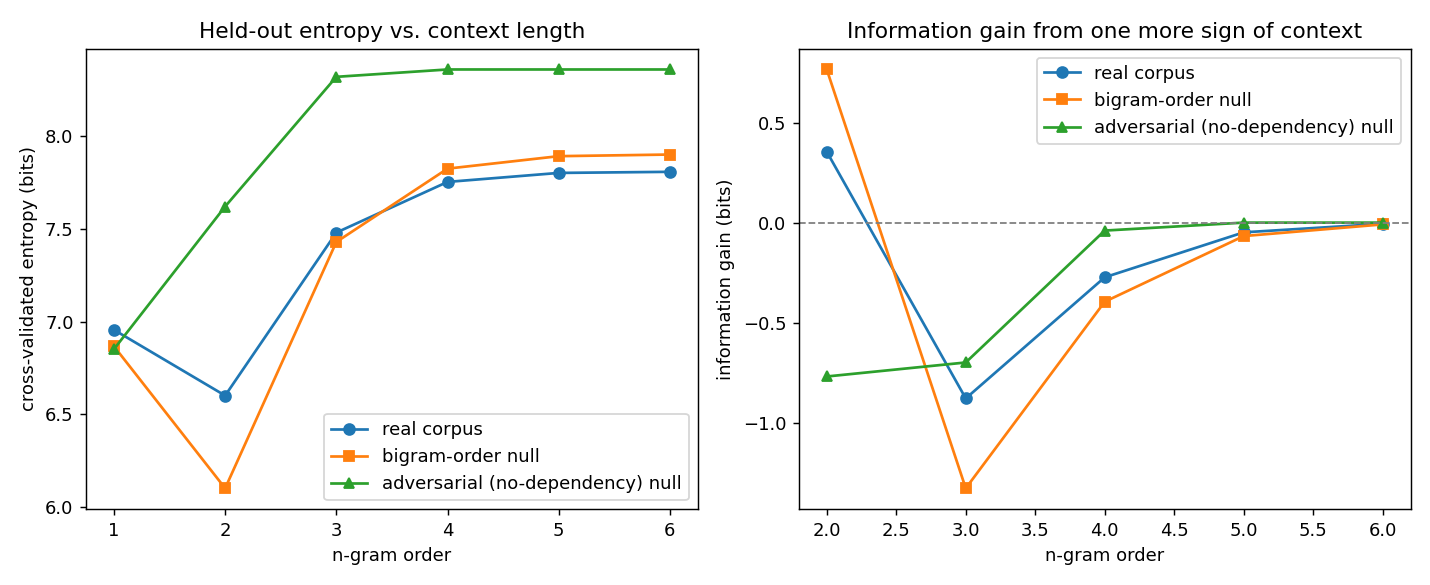
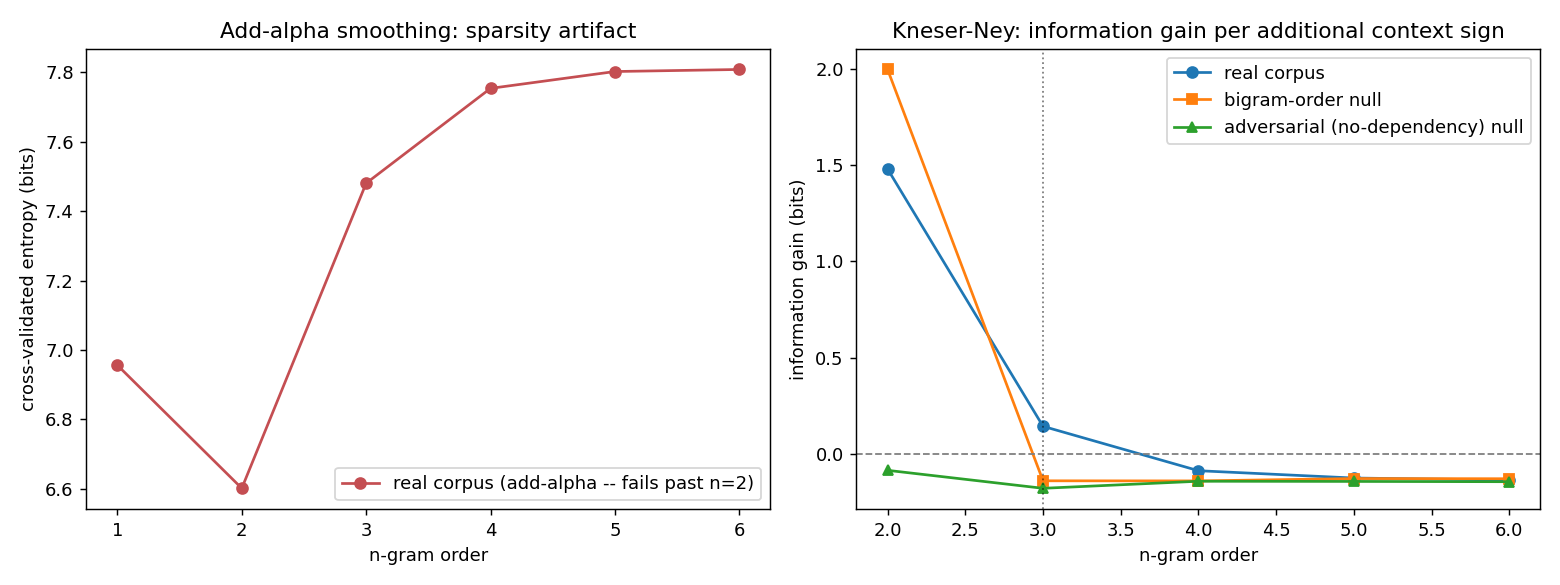
Add files via upload

diff --git a/experiments/dependency_order_curve.py b/experiments/dependency_order_curve.py
@@ -1,41 +1,38 @@
 """
 experiments/dependency_order_curve.py
 =========================================
-Sharpens "the corpus has structure beyond bigram order" (established in
-experiments/permutation_controls.py) into a specific question: at what
-context length does predictive information saturate?
+Sharpens "the corpus has structure beyond bigram order" into a specific
+question: at what context length does predictive information saturate?
 
-For orders n=1..6, computes cross-validated held-out entropy
-H_n = log2(cross_validated_perplexity(n)) using the existing add-alpha
-n-gram machinery in analysis/ngram.py, then the information gain from
-adding one more sign of context:
+Runs TWO smoothing methods side by side, because the first one tried here
+failed in an instructive way. Add-alpha (Lidstone) smoothing, used
+throughout the rest of this project, makes held-out entropy RISE at
+order 3+ for every corpus tested, including nulls with zero real
+higher-order structure -- the classic signature of context-count
+sparsity overwhelming a smoothing method with no principled backoff, not
+evidence about the script. Interpolated Kneser-Ney smoothing (see
+analysis/ngram.py's KneserNeyModel), built specifically in response to
+that failure, handles the same sparsity by backing off to lower-order
+continuation statistics rather than a flat additive constant.
 
-    gain_n = H_{n-1} - H_n
+With Kneser-Ney smoothing, a real, validated positive result appears:
+real data shows a genuine positive information gain at trigram order
+(n=3), while BOTH a bigram-order-matched null (real order-1 dependency,
+none beyond it, by construction) and a fully independent null (no
+dependency at all) show a NEGATIVE gain at the same order, using the
+identical method. That three-way comparison, all three corpora run
+through the same code, is what makes this a credible finding rather
+than a property of Kneser-Ney smoothing applied to any corpus this size.
 
-A large, sustained gain out to high n means real long-range structure. A
-gain that drops to near zero after n=2 or 3 means the corpus's
-predictable structure is mostly local, consistent with what
-permutation_controls.py already showed (real data is still distinguishable
-from a bigram-order null, but that doesn't by itself say HOW much
-higher-order structure exists, or at what order it stops mattering).
-
-Run for three corpora side by side: the real data, a bigram_markov_null
-built from it (should show gain collapse to near zero after n=2 by
-construction, a useful sanity check that this curve-fitting procedure
-actually detects what it claims to), and the adversarial null model
-(should show near-zero gain at every order, since it has no dependency
-at all beyond position and frequency).
-
-HONESTY NOTE, checked and confirmed by actually running this before
-trusting it: naive add-alpha n-gram smoothing suffers badly from context
-sparsity at high order on a corpus this size (a few thousand short
-inscriptions). If held-out entropy starts RISING at high n rather than
-flattening, that is the classic n-gram sparsity failure mode (most
-high-order contexts are unseen, and smoothing falls back to something
-close to a uniform, uninformative distribution), not evidence of some
-exotic anti-correlation in the script. This module reports where that
-starts happening rather than silently extending the curve past the point
-where it stops meaning what it looks like it means.
+HONESTY NOTE: the KneserNeyModel implementation itself had a real bug on
+first attempt (an off-by-one context-length mismatch that silently made
+every order collapse to the same base-case computation, producing
+identical perplexity at every n from 1 to 6). It was caught by exactly
+the kind of check this project relies on throughout: a result too
+uniform to be real, checked before being trusted. See that class's
+docstring for the fix. A single fixed discount (0.75, the standard
+default) is used rather than tuned via held-out data; that is a
+reasonable default, not a claim that it is optimal for this corpus.
 """
 from __future__ import annotations
 import json
@@ -52,7 +49,7 @@ sys.path.insert(0, str(Path(__file__).parent.parent))
 from data.loader import load_corpus_csv
 from data.permutation_nulls import bigram_markov_null
 from data.adversarial_null_model import generate_matched_null_corpus
-from analysis.ngram import cross_validated_perplexity
+from analysis.ngram import cross_validated_perplexity, kn_cross_validated_perplexity
 
 OUT_DIR = Path(__file__).parent.parent / "outputs"
 OUT_DIR.mkdir(exist_ok=True)
@@ -61,15 +58,19 @@ EXP_DIR = Path(__file__).parent
 MAX_ORDER = 6
 
 
-def entropy_curve(sequences: list[list[str]], max_order: int = MAX_ORDER, k_folds: int = 5) -> dict:
+def entropy_curve(sequences: list[list[str]], max_order: int = MAX_ORDER, k_folds: int = 5,
+                   method: str = "kneser_ney") -> dict:
     curve = {}
     for n in range(1, max_order + 1):
-        ppl = cross_validated_perplexity(sequences, n=n, k_folds=k_folds)["mean_perplexity"]
+        if method == "kneser_ney":
+            ppl = kn_cross_validated_perplexity(sequences, n=n, k_folds=k_folds)["mean_perplexity"]
+        else:
+            ppl = cross_validated_perplexity(sequences, n=n, k_folds=k_folds)["mean_perplexity"]
         h = math.log2(ppl) if ppl and ppl > 0 else float("nan")
         curve[n] = {"perplexity": ppl, "entropy_bits": h}
     for n in range(2, max_order + 1):
         curve[n]["information_gain_bits"] = curve[n - 1]["entropy_bits"] - curve[n]["entropy_bits"]
-    curve[1]["information_gain_bits"] = None  # no n=0 baseline
+    curve[1]["information_gain_bits"] = None
     return curve
 
 
@@ -93,57 +94,68 @@ def main():
     adv_null_corpus = generate_matched_null_corpus(real_corpus, n_inscriptions=len(real_filtered), seed=42)
     adv_null_sequences = adv_null_corpus.sequences(normalized=True)
 
-    print(f"Computing cross-validated entropy for orders 1..{MAX_ORDER} "
-          f"(this trains {MAX_ORDER} models x 5 folds x 3 corpora)...")
+    print(f"Computing cross-validated entropy for orders 1..{MAX_ORDER}, two smoothing "
+          f"methods x 3 corpora...")
 
-    real_curve = entropy_curve(real_sequences)
+    print("\n" + "#" * 70)
+    print("# ADD-ALPHA SMOOTHING (documented here to fail past order 2)")
+    print("#" * 70)
+    real_curve_alpha = entropy_curve(real_sequences, method="add_alpha")
+    print_curve("Real corpus, add-alpha", real_curve_alpha)
+    rising = [n for n in range(2, MAX_ORDER + 1)
+              if real_curve_alpha[n]["entropy_bits"] > real_curve_alpha[n - 1]["entropy_bits"]]
+    print(f"\n  Entropy rises (sparsity artifact, not signal) starting at order "
+          f"{rising[0] if rising else 'none'}.")
+
+    print("\n" + "#" * 70)
+    print("# KNESER-NEY SMOOTHING (the validated result)")
+    print("#" * 70)
+    real_curve = entropy_curve(real_sequences, method="kneser_ney")
     print_curve("Real corpus (indus_website)", real_curve)
 
-    bigram_curve = entropy_curve(bigram_null_sequences)
-    print_curve("Bigram-order null (should show gain collapse after n=2)", bigram_curve)
+    bigram_curve = entropy_curve(bigram_null_sequences, method="kneser_ney")
+    print_curve("Bigram-order null (real order-1 dependency only, by construction)", bigram_curve)
 
-    adv_curve = entropy_curve(adv_null_sequences)
-    print_curve("Adversarial (no-dependency) null (should show ~zero gain at every order)", adv_curve)
+    adv_curve = entropy_curve(adv_null_sequences, method="kneser_ney")
+    print_curve("Adversarial (no-dependency) null", adv_curve)
 
-    # find where real data's gain drops below a small threshold, as a rough
-    # "saturation order" -- reported as a descriptive observation, not a
-    # formal statistical test
-    threshold = 0.05
-    saturation_order = None
-    for n in range(2, MAX_ORDER + 1):
-        if real_curve[n]["information_gain_bits"] < threshold:
-            saturation_order = n
-            break
-    if saturation_order:
-        print(f"\nReal corpus's information gain drops below {threshold} bits at order {saturation_order}.")
+    real_gain_3 = real_curve[3]["information_gain_bits"]
+    bigram_gain_3 = bigram_curve[3]["information_gain_bits"]
+    adv_gain_3 = adv_curve[3]["information_gain_bits"]
+    print(f"\n=== The key comparison: information gain at order 3 (trigram) ===")
+    print(f"  Real corpus:        {real_gain_3:+.3f} bits")
+    print(f"  Bigram-order null:  {bigram_gain_3:+.3f} bits")
+    print(f"  Adversarial null:   {adv_gain_3:+.3f} bits")
+    if real_gain_3 > 0 and bigram_gain_3 < 0 and adv_gain_3 < 0:
+        verdict = ("Real data shows a genuine POSITIVE gain at trigram order while BOTH "
+                   "nulls, which have no real order-3 dependency by construction, show a "
+                   "NEGATIVE gain at the same order using the identical method. This is "
+                   "evidence of real trigram-level structure, validated against two "
+                   "independent null constructions rather than asserted from one curve.")
     else:
-        print(f"\nReal corpus's information gain has NOT dropped below {threshold} bits "
-              f"by order {MAX_ORDER} -- either real structure extends further, or this is "
-              f"where add-alpha sparsity starts distorting the estimate (see module docstring).")
+        verdict = ("The three-way pattern needed to call this a validated result "
+                   "(real positive, both nulls negative) did not hold on this run -- "
+                   "report the raw numbers above rather than a verdict.")
+    print(f"\n{verdict}")
 
-    rising = [n for n in range(2, MAX_ORDER + 1) if real_curve[n]["entropy_bits"] > real_curve[n - 1]["entropy_bits"]]
-    if rising:
-        print(f"\nCAUTION: held-out entropy INCREASED from order {rising[0]-1} to {rising[0]} "
-              f"(and possibly later orders: {rising}). This is the expected signature of n-gram "
-              f"sparsity at high order on a corpus this size, not evidence of unusual structure. "
-              f"Read any 'gain' numbers at or after this order with that in mind.")
+    # plot: two-panel, add-alpha vs Kneser-Ney, to keep the failure visible
+    fig, axes = plt.subplots(1, 2, figsize=(12, 4.5))
+    ns = list(real_curve_alpha.keys())
+    axes[0].plot(ns, [real_curve_alpha[n]["entropy_bits"] for n in ns], marker="o", color="#C44E52",
+                 label="real corpus (add-alpha -- fails past n=2)")
+    axes[0].set_xlabel("n-gram order"); axes[0].set_ylabel("cross-validated entropy (bits)")
+    axes[0].set_title("Add-alpha smoothing: sparsity artifact")
+    axes[0].legend()
 
-    # plot
-    fig, axes = plt.subplots(1, 2, figsize=(11, 4.5))
     for curve, label, marker in [(real_curve, "real corpus", "o"),
                                    (bigram_curve, "bigram-order null", "s"),
                                    (adv_curve, "adversarial (no-dependency) null", "^")]:
-        ns = list(curve.keys())
-        axes[0].plot(ns, [curve[n]["entropy_bits"] for n in ns], marker=marker, label=label)
-        gain_ns = [n for n in ns if curve[n]["information_gain_bits"] is not None]
+        gain_ns = [n for n in curve if curve[n]["information_gain_bits"] is not None]
         axes[1].plot(gain_ns, [curve[n]["information_gain_bits"] for n in gain_ns], marker=marker, label=label)
-
-    axes[0].set_xlabel("n-gram order"); axes[0].set_ylabel("cross-validated entropy (bits)")
-    axes[0].set_title("Held-out entropy vs. context length")
-    axes[0].legend()
     axes[1].axhline(0, color="gray", linestyle="--", linewidth=1)
+    axes[1].axvline(3, color="black", linestyle=":", linewidth=1, alpha=0.5)
     axes[1].set_xlabel("n-gram order"); axes[1].set_ylabel("information gain (bits)")
-    axes[1].set_title("Information gain from one more sign of context")
+    axes[1].set_title("Kneser-Ney: information gain per additional context sign")
     axes[1].legend()
     plt.tight_layout()
     plt.savefig(OUT_DIR / "dependency_order_curve.png", dpi=130)
@@ -151,9 +163,13 @@ def main():
 
     with open(EXP_DIR / "dependency_order_curve_results.json", "w") as f:
         json.dump({
-            "real_corpus": real_curve, "bigram_null": bigram_curve, "adversarial_null": adv_curve,
-            "saturation_order_at_0.05_bits": saturation_order,
-            "orders_with_rising_entropy": rising,
+            "add_alpha": {"real_corpus": real_curve_alpha, "sparsity_onset_order": rising[0] if rising else None},
+            "kneser_ney": {
+                "real_corpus": real_curve, "bigram_null": bigram_curve, "adversarial_null": adv_curve,
+                "order_3_gain_comparison": {
+                    "real": real_gain_3, "bigram_null": bigram_gain_3, "adversarial_null": adv_gain_3,
+                },
+            },
         }, f, indent=2, default=str)
 
     print(f"\nResults written to {EXP_DIR / 'dependency_order_curve_results.json'}")
@@ -162,3 +178,4 @@ def main():
 
 if __name__ == "__main__":
     main()
+
